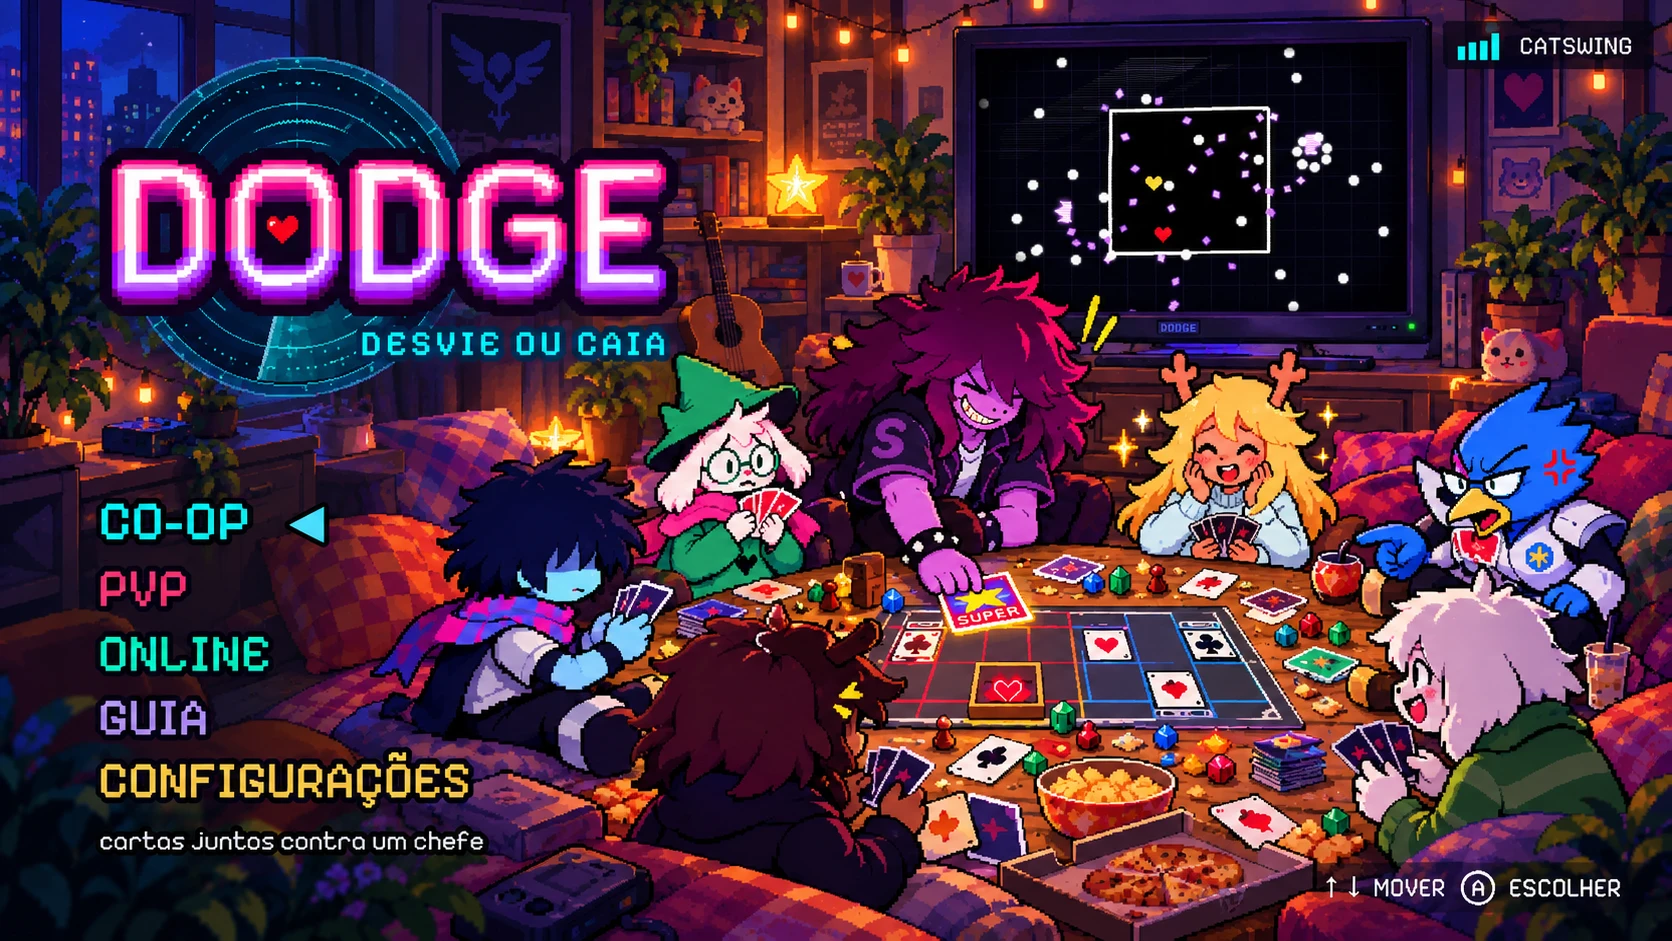
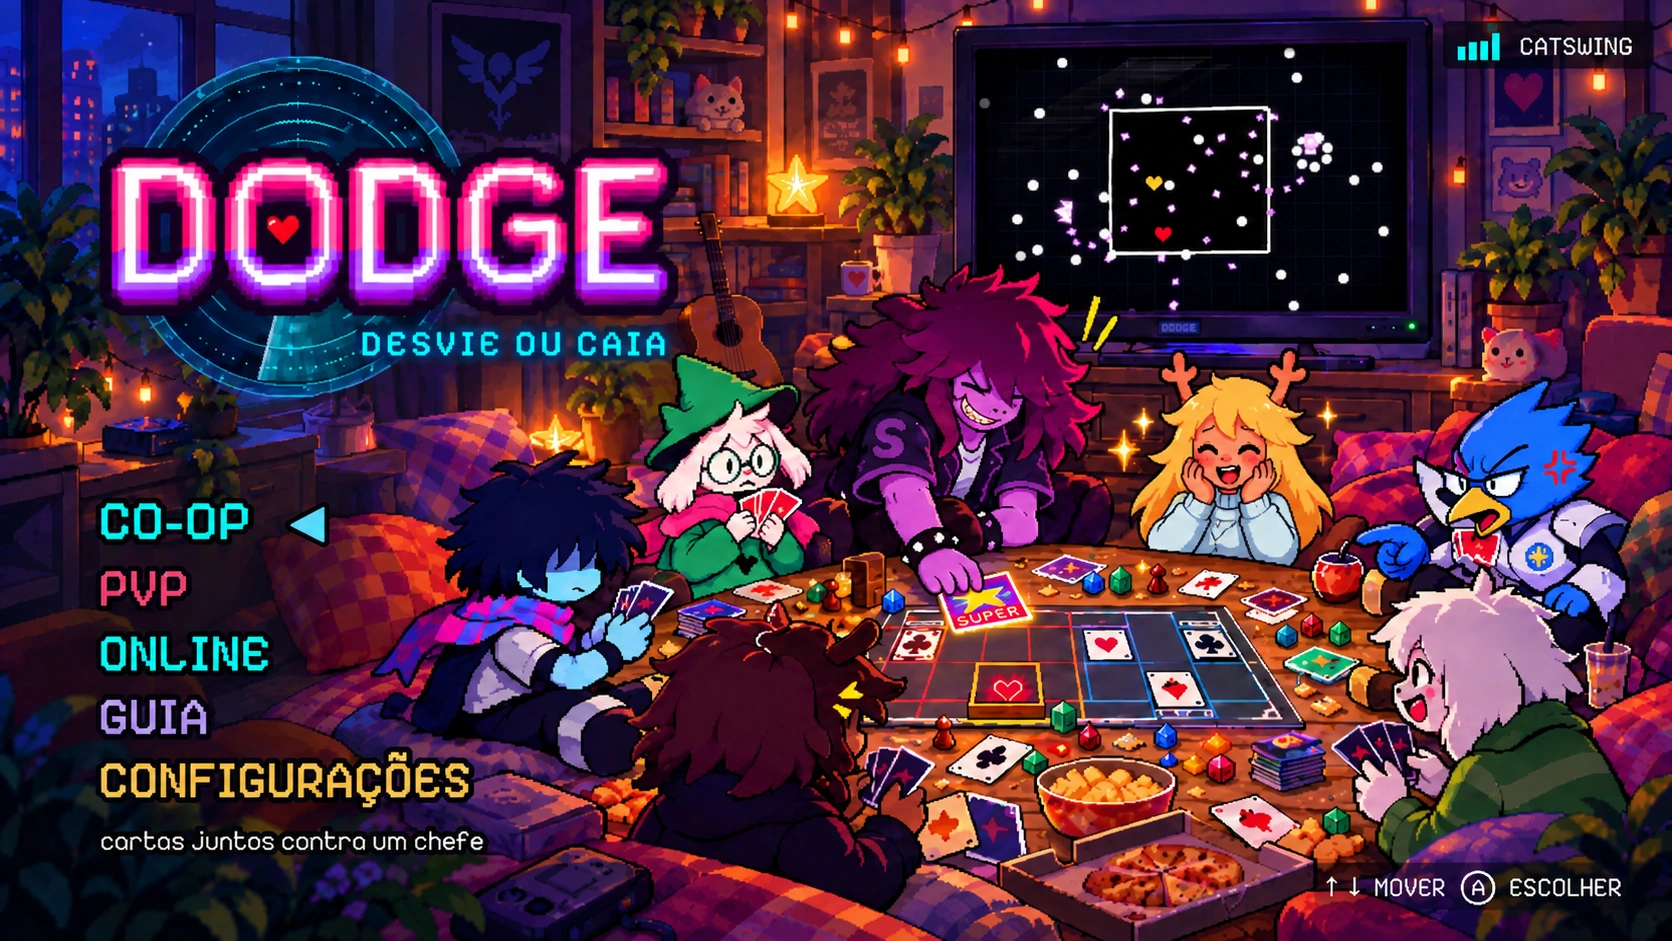
MESA DE CARTAS: ilustração com a Noelle corrigida (mãos no rosto) (#36)
A ilustração base passa a ser a versão já corrigida (a Noelle com as mãos no
rosto e um par de braços só); sai o remendo da Noelle do gerador e os ✦ e o
olho do Asriel acompanham a arte nova. Ignora __pycache__/.

Claude-Session: https://claude.ai/code/session_01EysMU7x8FWXVaTkzsodKU7

diff --git a/src/game/menu/sprites/mesa.js b/src/game/menu/sprites/mesa.js
@@ -21,4 +21,4 @@ export default {
   sons: [],
 }
 
-export const DADOS_MESA = {"arte": {"largura": 1672, "altura": 941, "escala": 0.5107655502392344}, "olhos": [{"id": "ralsei", "chave": "menu-mesa-olhos-ralsei", "x": 724, "y": 450}, {"id": "asriel", "chave": "menu-mesa-olhos-asriel", "x": 1410, "y": 654}, {"id": "berdly", "chave": "menu-mesa-olhos-berdly", "x": 1446, "y": 472}], "luzes": [{"x": 530.1, "y": 1.8, "tamanho": 2.1}, {"x": 700.0, "y": 1.9, "tamanho": 2.3}, {"x": 404.3, "y": 10.9, "tamanho": 2.7}, {"x": 493.7, "y": 11.7, "tamanho": 1.2}, {"x": 431.3, "y": 18.8, "tamanho": 2.8}, {"x": 461.1, "y": 28.1, "tamanho": 2.9}, {"x": 816.6, "y": 41.6, "tamanho": 3.0}, {"x": 744.8, "y": 90.2, "tamanho": 2.5}, {"x": 429.4, "y": 106.7, "tamanho": 0.9}, {"x": 407.5, "y": 109.5, "tamanho": 1.5}, {"x": 388.7, "y": 112.8, "tamanho": 1.1}, {"x": 421.5, "y": 116.1, "tamanho": 1.8}, {"x": 404.8, "y": 116.5, "tamanho": 0.6}, {"x": 447.8, "y": 122.9, "tamanho": 2.0}, {"x": 449.5, "y": 132.6, "tamanho": 3.2}, {"x": 431.5, "y": 134.3, "tamanho": 0.9}, {"x": 555.7, "y": 165.7, "tamanho": 2.2}, {"x": 567.1, "y": 165.4, "tamanho": 2.1}, {"x": 769.2, "y": 168.8, "tamanho": 0.6}, {"x": 553.6, "y": 172.4, "tamanho": 0.6}, {"x": 429.9, "y": 174.9, "tamanho": 2.7}, {"x": 560.5, "y": 175.8, "tamanho": 1.2}, {"x": 758.8, "y": 185.1, "tamanho": 3.1}, {"x": 56.0, "y": 195.3, "tamanho": 2.0}, {"x": 743.9, "y": 194.9, "tamanho": 2.3}, {"x": 74.1, "y": 201.7, "tamanho": 2.8}, {"x": 296.3, "y": 210.2, "tamanho": 1.1}, {"x": 34.2, "y": 214.3, "tamanho": 1.9}, {"x": 261.4, "y": 215.1, "tamanho": 1.0}, {"x": 298.6, "y": 225.1, "tamanho": 4.0}, {"x": 265.7, "y": 221.6, "tamanho": 1.7}, {"x": 296.0, "y": 236.3, "tamanho": 1.9}], "frente": {"chave": "menu-mesa-frente", "x": 968, "y": 265}, "raiva": {"chave": "menu-mesa-raiva", "x": 1544, "y": 449}, "exclamacao": {"chave": "menu-mesa-exclamacao", "x": 1079, "y": 293}, "tela": {"x": 497.5, "y": 20.9, "largura": 227.3, "altura": 141.0}, "cartaSuper": {"x": 505.7, "y": 309.0}, "brilhos": [{"x": 583.3, "y": 214.5}, {"x": 574.1, "y": 228.3}, {"x": 677.8, "y": 210.9}, {"x": 675.2, "y": 232.4}, {"x": 568.0, "y": 248.7}, {"x": 683.4, "y": 194.1}]}
+export const DADOS_MESA = {"arte": {"largura": 1672, "altura": 941, "escala": 0.5107655502392344}, "olhos": [{"id": "ralsei", "chave": "menu-mesa-olhos-ralsei", "x": 724, "y": 450}, {"id": "asriel", "chave": "menu-mesa-olhos-asriel", "x": 1409, "y": 653}, {"id": "berdly", "chave": "menu-mesa-olhos-berdly", "x": 1446, "y": 473}], "luzes": [{"x": 530.2, "y": 1.8, "tamanho": 2.1}, {"x": 700.1, "y": 2.0, "tamanho": 2.3}, {"x": 404.3, "y": 10.9, "tamanho": 2.7}, {"x": 493.8, "y": 11.8, "tamanho": 1.3}, {"x": 431.3, "y": 18.6, "tamanho": 2.7}, {"x": 461.0, "y": 28.0, "tamanho": 2.8}, {"x": 816.6, "y": 41.8, "tamanho": 3.1}, {"x": 745.0, "y": 90.1, "tamanho": 2.5}, {"x": 394.3, "y": 101.0, "tamanho": 3.5}, {"x": 430.1, "y": 104.8, "tamanho": 2.1}, {"x": 447.4, "y": 122.6, "tamanho": 1.7}, {"x": 450.1, "y": 132.3, "tamanho": 3.0}, {"x": 443.9, "y": 134.4, "tamanho": 0.9}, {"x": 555.9, "y": 165.9, "tamanho": 2.2}, {"x": 567.4, "y": 165.2, "tamanho": 2.1}, {"x": 429.3, "y": 174.3, "tamanho": 2.5}, {"x": 560.5, "y": 175.8, "tamanho": 1.2}, {"x": 758.8, "y": 185.8, "tamanho": 2.6}, {"x": 743.6, "y": 194.9, "tamanho": 2.3}, {"x": 55.9, "y": 195.6, "tamanho": 1.4}, {"x": 73.6, "y": 200.9, "tamanho": 2.2}, {"x": 34.5, "y": 214.9, "tamanho": 2.0}, {"x": 300.1, "y": 224.1, "tamanho": 2.9}, {"x": 187.2, "y": 225.0, "tamanho": 0.9}, {"x": 295.8, "y": 227.3, "tamanho": 2.0}, {"x": 295.0, "y": 236.2, "tamanho": 1.9}], "frente": {"chave": "menu-mesa-frente", "x": 968, "y": 264}, "raiva": {"chave": "menu-mesa-raiva", "x": 1544, "y": 450}, "exclamacao": {"chave": "menu-mesa-exclamacao", "x": 1080, "y": 293}, "tela": {"x": 497.5, "y": 20.9, "largura": 227.3, "altura": 141.0}, "cartaSuper": {"x": 505.7, "y": 309.0}, "brilhos": [{"x": 584.3, "y": 214.5}, {"x": 573.6, "y": 229.3}, {"x": 677.8, "y": 211.5}]}

diff --git a/scripts/menu/mesa.py b/scripts/menu/mesa.py
@@ -7,17 +7,15 @@ Precisa do Pillow, do numpy e do OpenCV (pip install opencv-python-headless).
 Saída determinística (sementes fixas).
 
 Parte da ilustração scripts/menu/arte/mesa-original.webp (1672x941): a turma
-jogando cartas numa mesa, com o telão ao fundo. Fica na resolução dela (o jogo
+jogando cartas numa mesa, com o telão ao fundo (a versão com a Noelle já
+corrigida: mãos no rosto, um par de braços só). Fica na resolução dela (o jogo
 mostra reduzida para 854x480, com filtro suave). O script:
 
   1. apaga o que a ilustração traz pintado e o jogo desenha ao vivo: o logo,
      as opções, as dicas e o nome da música;
-  2. corrige a Noelle (na ilustração ela segura as cartas E põe as mãos no
-     rosto: quatro braços); as cartas e as mãos que as seguram saem, e as
-     mãos no rosto ganham os antebraços (cotovelos na mesa);
-  3. devolve ao chapéu e à capa do Ralsei o verde do sprite dele;
-  4. desenha os olhos fechados de quem pisca (Ralsei, Asriel e Berdly);
-  5. separa o que fica NA FRENTE da tela do telão (o cabelo da Susie e o "!!"),
+  2. devolve ao chapéu e à capa do Ralsei o verde do sprite dele;
+  3. desenha os olhos fechados de quem pisca (Ralsei, Asriel e Berdly);
+  4. separa o que fica NA FRENTE da tela do telão (o cabelo da Susie e o "!!"),
      porque a luta passa ao vivo por cima da tela.
 
 Saída:
@@ -59,7 +57,7 @@ OLHOS = {
         {'lente': (754, 450, 766, 473), 'traco': (24, 58, 44), 'curva': 2},
     ],
     'asriel': [
-        {'elipse': (1420, 671, 10, 17), 'traco': (52, 28, 46), 'curva': 3},
+        {'elipse': (1421, 672, 12, 19), 'traco': (52, 28, 46), 'curva': 3},
     ],
     'berdly': [
         {'lente': (1446, 473, 1472, 494), 'traco': (14, 20, 48), 'curva': 1},
@@ -85,33 +83,7 @@ TELA = (974, 41, 1419, 317)  # a tela do telão (onde passa a luta ao vivo)
 EXCLAMACAO = (1068, 278, 1122, 352)  # o "!!" da Susie
 RAIVA = (1528, 443, 1582, 497)  # o "💢" do Berdly
 CARTA_SUPER = (952, 578, 1028, 632)  # a carta SUPER que a Susie bate na mesa
-# A Noelle: na ilustração ela põe as mãos no rosto E segura as cartas (quatro
-# braços). Ficam as mãos no rosto; as cartas e as mãos que as seguram viram a
-# frente da blusa, e dois antebraços (mangas da blusa) descem dos pulsos até os
-# cotovelos na mesa: a pose de "cotovelos na mesa, rosto nas mãos".
-MAOS_ROSTO_NOELLE = [  # as mãos no rosto (voltam por cima dos punhos, como na ilustração)
-    [(1180, 455), (1192, 451), (1204, 455), (1213, 470), (1214, 488), (1208, 506), (1184, 506), (1177, 490)],
-    [(1247, 455), (1261, 451), (1276, 455), (1285, 470), (1285, 506), (1251, 506), (1245, 488), (1246, 470)],
-]
-CARTAS_NOELLE = [(1184, 513), (1198, 505), (1262, 505), (1266, 520), (1266, 563), (1184, 563)]  # cartas + mãos de baixo
-BARRA_NOELLE = 556  # a barra da blusa (dali para baixo, a mesa)
-# o antebraço esquerdo (manga fofa: estreita no punho, larga no meio, cotovelo
-# redondo na mesa); o direito é ele espelhado no meio do corpo (x = 1230)
-ANTEBRACO_NOELLE = [(1189, 496), (1205, 496), (1209, 512), (1211, 530), (1210, 548), (1205, 558), (1196, 561), (1187, 558), (1182, 548), (1182, 530), (1184, 512)]
-SOMBRA_ANTEBRACO = [(1184, 512), (1182, 530), (1182, 548), (1187, 558), (1196, 561), (1205, 558), (1208, 551), (1194, 552), (1188, 540), (1188, 515)]
-PUNHO_NOELLE = [(1189, 496), (1205, 496), (1207, 504), (1187, 504)]
-DOBRA_ANTEBRACO = [(1187, 527), (1194, 531), (1203, 529)]
-GOLA_BAIXO_NOELLE = [(1206, 505), (1218, 509), (1230, 510), (1242, 509), (1254, 505)]  # a dobra de baixo da gola alta
-DOBRAS_BLUSA = [[(1214, 522), (1222, 528)], [(1246, 522), (1238, 528)]]
-MEIO_NOELLE = 2460  # espelho: x -> 2460 - x
-COR_NOELLE = {
-    'blusa': (209, 230, 242),
-    'sombra': (183, 204, 229),
-    'dobra': (150, 172, 208),
-    'punho': (142, 159, 199),
-    'contorno': (26, 37, 65),
-}
-BRILHOS = [(1142, 420), (1124, 447), (1327, 413), (1322, 455), (1112, 487), (1338, 380)]  # ✦ em volta da Noelle
+BRILHOS = [(1144, 420), (1123, 449), (1327, 414)]  # ✦ em volta da Noelle
 # onde não procurar lâmpadas (cabelo loiro e brilhos da Noelle, a tela, o logo, a mesa)
 SEM_LUZES = [TELA, LOGO, SUBTITULO, (1100, 330, 1345, 530), (0, 470, L, A)]
 
@@ -138,54 +110,6 @@ def dilatar(m, px):
 
 
 # ---------- limpeza e correções ----------
-
-
-def corrigir_noelle(img):
-    """Tira as cartas e o par de mãos que as segura; no lugar, a blusa e os
-    antebraços das mãos que estão no rosto (pixel art, cores da blusa dela)."""
-    from PIL import ImageDraw
-
-    espelho = lambda pts: [(MEIO_NOELLE - x, y) for x, y in pts]
-    original = Image.fromarray(cv2.cvtColor(img, cv2.COLOR_BGR2RGB))
-    orig = np.asarray(original)
-    c = COR_NOELLE
-    # a frente da blusa: degradê suave de cima (clara) para baixo (sombra)
-    frente = Image.new('1', (L, A), 0)
-    ImageDraw.Draw(frente).polygon(CARTAS_NOELLE, fill=1)
-    f = np.asarray(frente, bool)
-    arr = orig.copy()
-    ys = np.arange(A)[:, None]
-    t = np.clip((ys - 505) / (BARRA_NOELLE - 505), 0, 1)
-    degrade = (np.array(c['blusa']) * (1 - t[..., None]) + np.array(c['sombra']) * t[..., None]).astype(np.uint8)
-    arr[f] = np.broadcast_to(degrade, (A, L, 3))[f]
-    # da barra para baixo volta a mesa (copiada de logo abaixo)
-    arr[BARRA_NOELLE + 1:564, 1184:1267] = orig[BARRA_NOELLE + 9:572, 1184:1267]
-    out = Image.fromarray(arr)
-    d = ImageDraw.Draw(out)
-    d.line([(1184, BARRA_NOELLE), (1266, BARRA_NOELLE)], fill=c['contorno'], width=2)
-    d.line(GOLA_BAIXO_NOELLE, fill=c['dobra'], width=2)
-    for dobra in DOBRAS_BLUSA:
-        d.line(dobra, fill=c['dobra'], width=1)
-    # os antebraços (o esquerdo e o direito, espelhado)
-    for lado in (lambda p: p, espelho):
-        d.polygon(lado(ANTEBRACO_NOELLE), fill=c['blusa'])
-        d.polygon(lado(SOMBRA_ANTEBRACO), fill=c['sombra'])
-        d.line(lado(DOBRA_ANTEBRACO), fill=c['dobra'], width=1)
-        d.line(lado(ANTEBRACO_NOELLE) + [lado(ANTEBRACO_NOELLE)[0]], fill=c['contorno'], width=2)
-        d.polygon(lado(PUNHO_NOELLE), fill=c['punho'])
-        for x in range(1191, 1205, 3):  # o canelado do punho
-            d.line(lado([(x, 498), (x, 502)]), fill=c['dobra'], width=1)
-        d.line(lado(PUNHO_NOELLE) + [lado(PUNHO_NOELLE)[0]], fill=c['contorno'], width=2)
-    # as mãos no rosto por cima dos punhos, como na ilustração
-    maos = Image.new('1', (L, A), 0)
-    for mao in MAOS_ROSTO_NOELLE:
-        ImageDraw.Draw(maos).polygon(mao, fill=1)
-    m = np.asarray(maos, bool)
-    pele = m & (np.abs(orig.astype(int) - np.array([247, 140, 105])).sum(axis=2) < 120)  # a pele e o contorno da mão
-    pele |= m & (orig.sum(axis=2) < 200)
-    arr = np.asarray(out).copy()
-    arr[pele] = orig[pele]
-    return cv2.cvtColor(arr, cv2.COLOR_RGB2BGR)
 
 
 def mascara_interface(img):
@@ -322,7 +246,6 @@ def main():
     img = cv2.imread(ORIGINAL)  # BGR
     assert img is not None and img.shape[:2] == (A, L), 'mesa-original.webp tem que ter 1672x941'
 
-    img = corrigir_noelle(img)
     msusie = recortar_figura(img, SUSIE)
     mralsei = recortar_figura(img, RALSEI) | caixa_mascara(RALSEI_CAPA)
     amarelo = lambda H, S, V: (H > 40) & (H < 70) & (S > 0.5) & (V > 0.7)
